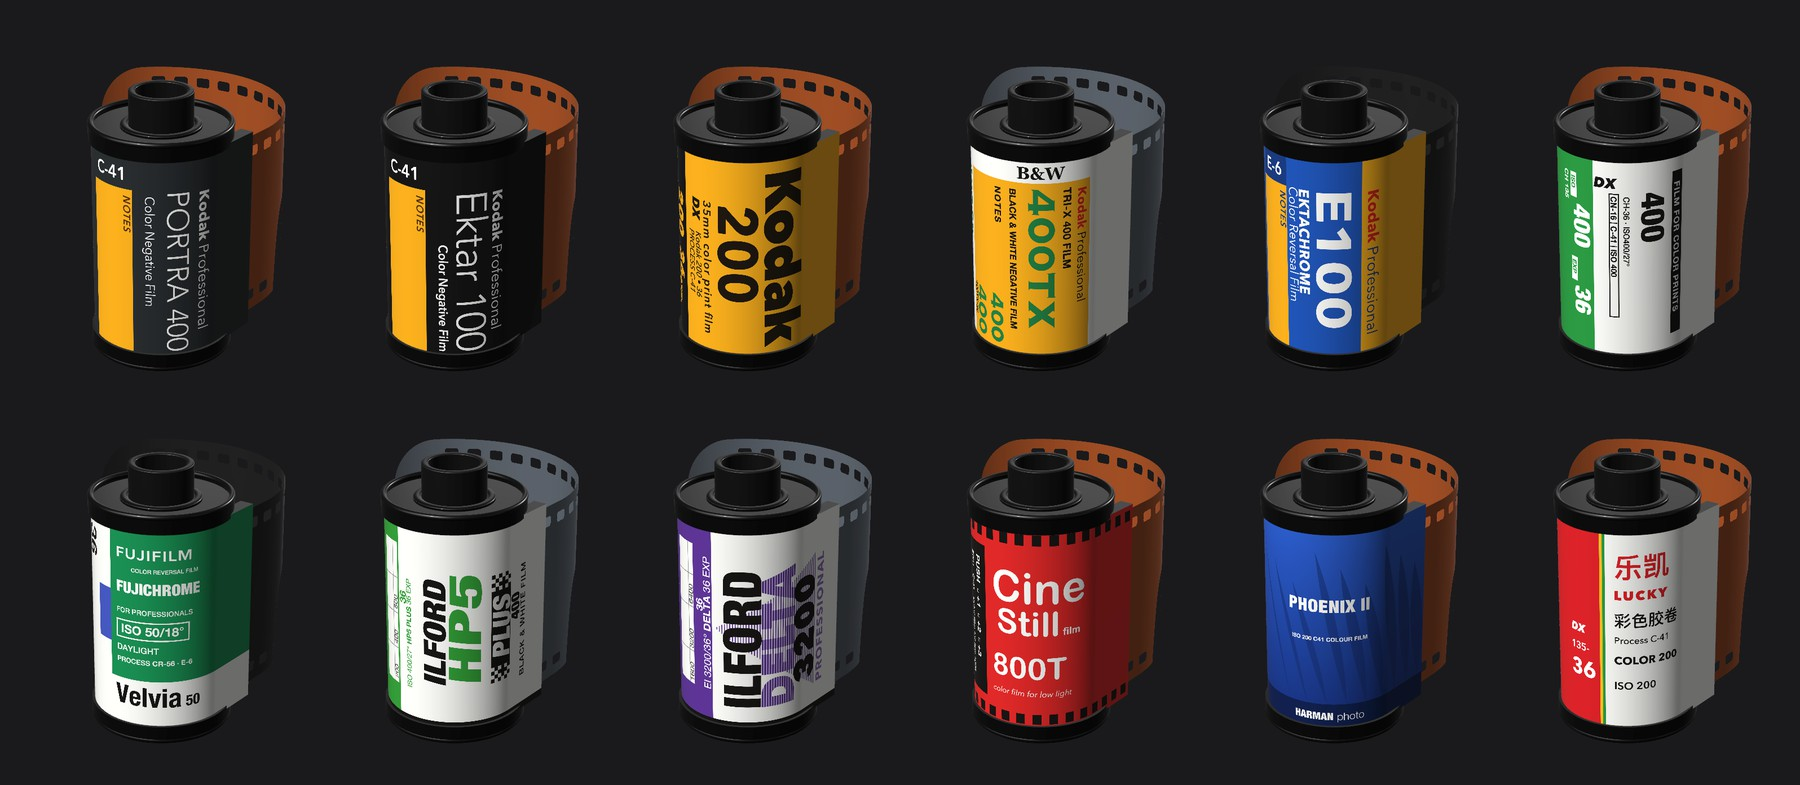
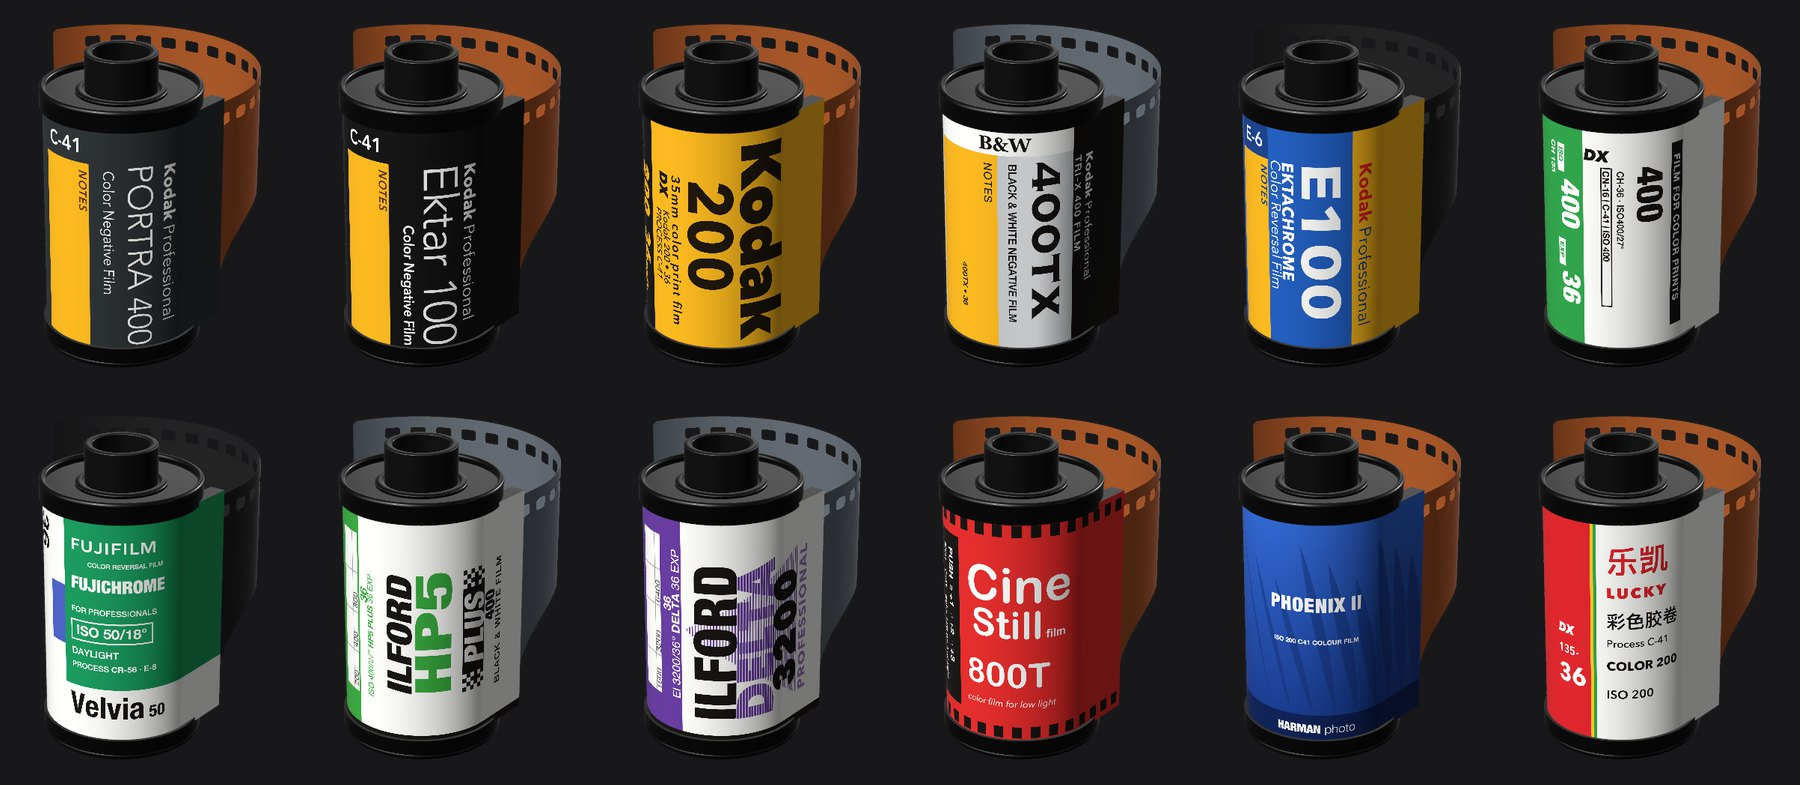
README close-ups rendered again with the recut leader and CineStill's 120; a check of CineStill's seal colours

diff --git a/Sources/Render3DTests.swift b/Sources/Render3DTests.swift
@@ -62,6 +62,20 @@ enum Render3DTests {
       try check(false, "the copy stand is rendered")
     }
 
+    // CineStill's 120: white paper, a seal in the stock's own colour (800T red, 400D purple, 50D blue).
+    func sealColour(_ stock: String) -> SIMD4<Double>? {
+      let look = NewProjectSheet.Look(maker: "CineStill", name: stock, title: stock, iso: 800, kind: .colour)
+      guard let p = pixels(Roll120Print.seal(look).image) else { return nil }
+      return p.at(p.w / 20, p.h * 3 / 4)
+    }
+    let paper = pixels(Roll120Print.paper(NewProjectSheet.Look(maker: "CineStill", name: "800T", title: "800T", iso: 800, kind: .colour)))?.at(10, 10)
+    if let red = sealColour("800T"), let purple = sealColour("400D"), let blue = sealColour("50D"), let paper {
+      try check(red.x > 0.7 && red.y < 0.3 && purple.x > purple.y + 0.15 && purple.z > purple.y + 0.25 && blue.z > blue.x + 0.3 && min(paper.x, paper.y, paper.z) > 0.9,
+        "CineStill 120 is white paper with a seal in its stock's colour: 800T red, 400D purple, 50D blue")
+    } else {
+      try check(false, "CineStill 120's paper and seal are printed")
+    }
+
     // A sleeve's plastic: never opaque, brighter on its welds than in the middle.
     if let image = SleevePlastic.shared.image(size: CGSize(width: 280, height: 40), scale: 2), let p = pixels(image) {
       var most = 0.0

diff --git a/doc/CHANGELOG.md b/doc/CHANGELOG.md
@@ -7,7 +7,8 @@
 负片的转换不变。
 
 - **CineStill 120 的样子照实物改了**：白色背纸，上面斜着绕一道背纸的接缝线；中间是按片种换颜色的封条（800T 红、400D 紫、50D 蓝），上沿一窄条白边，印白色的 CineStill 标志：大的 C 和 S，「film」竖着贴在 till 旁边。以前用的是别的厂家的通用样子（浅色背纸、黑条和橙色 C-41 条）。
-- **GitHub 主页**：「一览」多了暗盒转一圈的分解图、相机页等着实时取景时的翻拍架，和标定、平场的 3D 图；截图工具多拍一张 ① 的相机页。
+- **GitHub 主页**：「一览」多了暗盒转一圈的分解图、相机页等着实时取景时的翻拍架，和标定、平场的 3D 图；截图工具多拍一张 ① 的相机页。暗盒和 120 卷的两张近照按新的片头和 CineStill 120 重新渲染。
+- 自检增加 1 项（CineStill 120 的封条颜色）。
 
 ## 0.19.9 输出页重做、导出看得到进度；胶片会转，底片袋、胶片条和标定都有 3D；黄色漏光；打开不卡
 
